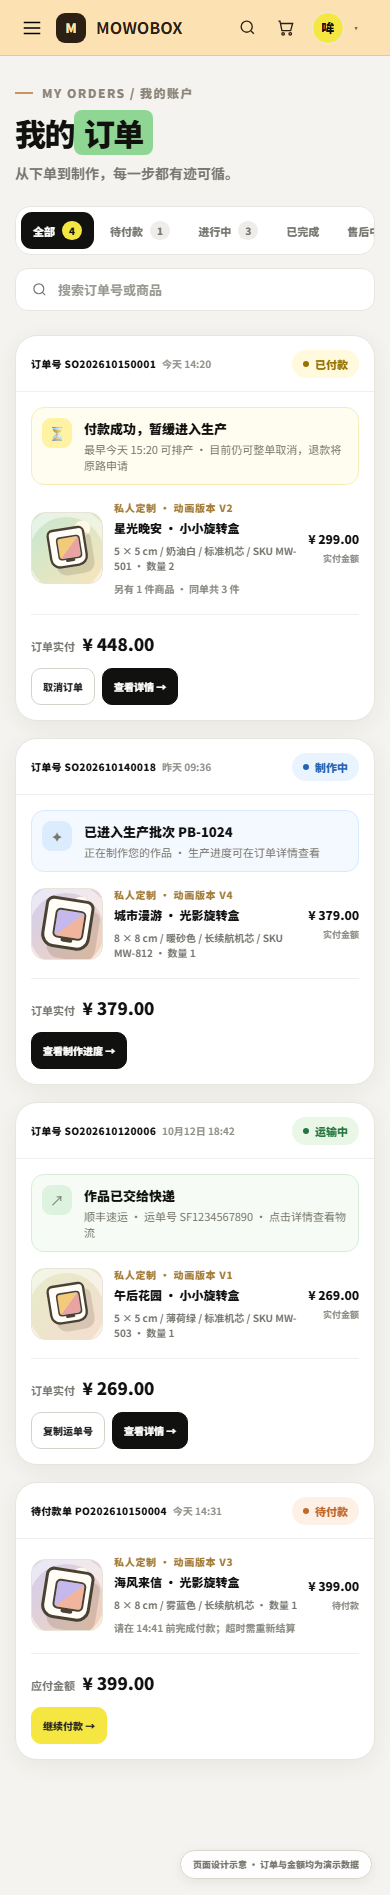
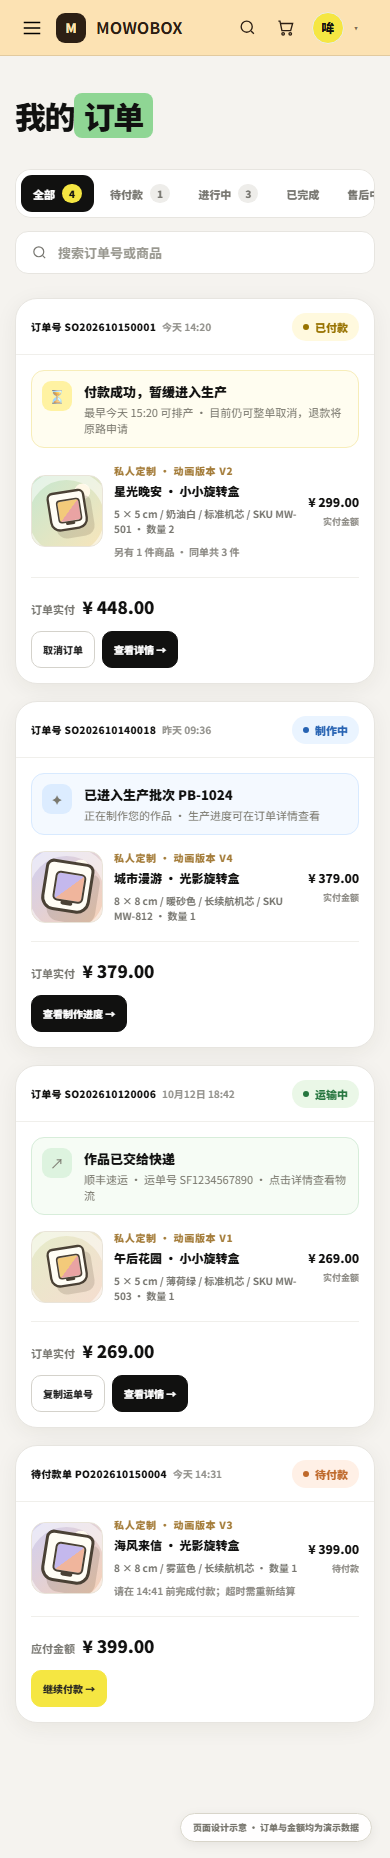
docs: use direct titles on order pages

diff --git a/docs/order-page-design/订单页面效果图.html b/docs/order-page-design/订单页面效果图.html
@@ -19,6 +19,7 @@
     html[data-view="detail"] .list-view{display:none}html[data-view="detail"] .detail-view{display:block}
     @media(max-width:900px){#mowo-nav{height:56px;grid-template-columns:auto 1fr auto;padding:0 16px}.mowo-nav-mid{display:none}.mowo-menu-btn{display:flex}.mowo-logo-sub{display:none}.mowo-logo{font-size:16px}.mowo-logo-mark{width:30px;height:30px;font-size:13px}.mowo-nav-left{gap:8px}.nav-uname{display:none}.workspace,.detail-layout{grid-template-columns:1fr}.aside-card{display:none}}
     @media(max-width:600px){.page,.detail-view .page{width:calc(100% - 30px);padding-top:28px}.page-title{font-size:31px}.page-top{margin-bottom:23px}.page-count{display:none}.toolbar{display:block}.tabs{overflow:auto;width:100%;margin-bottom:13px}.tab{padding:9px 12px;font-size:11px}.search{width:100%;height:43px}.card-top{flex-wrap:wrap;gap:6px;min-height:56px;padding:10px 15px}.card-number{font-size:10px}.card-date{font-size:10px}.card-content{padding:15px}.stage{margin-bottom:15px;padding:10px}.product-row{gap:11px}.art{width:72px;height:72px}.mini-box{transform:scale(.78) rotate(-9deg)}.product-name{font-size:12px}.product-spec,.product-more{font-size:10px}.product-price{font-size:12px}.product-price small{font-size:9px}.card-bottom{flex-wrap:wrap;gap:7px}.amount{flex-basis:100%;margin-bottom:5px}.btn{padding:0 11px;font-size:10px}.mowo-nav-right{gap:0}.demo-label{right:8px;bottom:8px;font-size:9px}.detail-header h1{font-size:24px}.hero{padding:19px}.hero h2{font-size:25px}.detail-card{padding:17px}.progress-item{font-size:9px}}
+    .list-view .page{max-width:930px}.list-view .workspace{display:block}
   </style>
 </head>
 <body>
@@ -29,7 +30,7 @@
   </nav>
   <div class="list-view">
     <main class="page">
-      <div class="page-top"><div><div class="eyebrow"><span class="dash"></span>MY ORDERS / 我的账户</div><h1 class="page-title">我的<mark>订单</mark></h1><p class="page-desc">从下单到制作，每一步都有迹可循。</p></div><p class="page-count">共 4 笔订单 · 最近更新于今天 14:26</p></div>
+      <div class="page-top"><div><h1 class="page-title">我的<mark>订单</mark></h1></div><p class="page-count">共 4 笔订单</p></div>
       <div class="toolbar"><div class="tabs"><button class="tab active">全部 <span class="count">4</span></button><button class="tab">待付款 <span class="count">1</span></button><button class="tab">进行中 <span class="count">3</span></button><button class="tab">已完成</button><button class="tab">售后中</button></div><div class="search"><svg viewBox="0 0 24 24"><circle cx="11" cy="11" r="7"/><path d="m20 20-3.5-3.5"/></svg>搜索订单号或商品</div></div>
       <div class="workspace">
         <div class="order-list">
@@ -38,17 +39,16 @@
           <article class="order-card"><div class="card-top"><span class="card-number">订单号 SO202610120006</span><span class="card-date">10月12日 18:42</span><span class="card-spacer"></span><span class="pill green">运输中</span></div><div class="card-content"><div class="stage green"><span class="stage-icon">↗</span><div><strong>作品已交给快递</strong><span>顺丰速运 · 运单号 SF1234567890 · 点击详情查看物流</span></div></div><div class="product-row"><div class="art c"><div class="mini-box"></div></div><div class="product-main"><div class="source">私人定制 · 动画版本 V1</div><div class="product-name">午后花园 · 小小旋转盒</div><div class="product-spec">5 × 5 cm / 薄荷绿 / 标准机芯 / SKU MW-503 · 数量 1</div></div><div class="product-price">¥ 269.00<small>实付金额</small></div></div><div class="card-bottom"><div class="amount">订单实付 <strong>¥ 269.00</strong></div><button class="btn">复制运单号</button><button class="btn dark">查看详情 →</button></div></div></article>
           <article class="order-card"><div class="card-top"><span class="card-number">待付款单 PO202610150004</span><span class="card-date">今天 14:31</span><span class="card-spacer"></span><span class="pill orange">待付款</span></div><div class="card-content"><div class="product-row"><div class="art b"><div class="mini-box"></div></div><div class="product-main"><div class="source">私人定制 · 动画版本 V3</div><div class="product-name">海风来信 · 光影旋转盒</div><div class="product-spec">8 × 8 cm / 雾蓝色 / 长续航机芯 · 数量 1</div><div class="product-more">请在 14:41 前完成付款；超时需重新结算</div></div><div class="product-price">¥ 399.00<small>待付款</small></div></div><div class="card-bottom"><div class="amount">应付金额 <strong>¥ 399.00</strong></div><button class="btn yellow">继续付款 →</button></div></div></article>
         </div>
-        <aside class="aside-card"><span class="aside-eyebrow">ORDER JOURNEY</span><h3>每一份创意，<br>我们认真对待。</h3><p>订单页面只展示实际发生的付款、制作与物流进度，让你随时知道作品到了哪一步。</p><hr><div class="aside-steps"><div class="aside-step"><span class="step-dot">1</span><span>付款成功后，订单先显示“已付款”</span></div><div class="aside-step"><span class="step-dot">2</span><span>真正进入生产批次，才显示“制作中”</span></div><div class="aside-step"><span class="step-dot">3</span><span>快递发出后，提供真实运单信息</span></div></div><div class="aside-foot">遇到问题？打开订单详情，带着订单号联系我们即可。</div></aside>
       </div>
     </main>
   </div>
   <div class="detail-view">
     <main class="page">
       <a class="back" href="?view=list">← 返回我的订单</a>
-      <div class="detail-header"><div><div class="eyebrow"><span class="dash"></span>ORDER DETAIL / 订单详情</div><h1>一份创意，正在等待启程。</h1><p>订单号 SO202610150001 · 下单时间 2026年10月15日 14:18</p></div><span class="pill yellow">已付款</span></div>
+      <div class="detail-header"><div><h1>订单详情</h1><p>订单号 SO202610150001 · 下单时间 2026年10月15日 14:18</p></div><span class="pill yellow">已付款</span></div>
       <div class="detail-layout">
         <div class="main-col">
-          <section class="hero"><div class="hero-top"><div><div class="hero-kicker">CURRENT STATUS / 当前进度</div><h2>已付款，等待排产</h2><p>付款于今天 14:20 确认；最早今天 15:20 可进入生产批次。<br>这个时间是最早排产时间，并非预计发货时间。</p></div><span class="pill yellow">可整单取消</span></div><div class="hero-action"><button class="btn dark">查看订单帮助 →</button><button class="btn">取消订单</button></div><div class="progress"><div class="progress-item done">付款成功</div><div class="progress-item active">等待排产</div><div class="progress-item">制作中</div><div class="progress-item">已发货</div><div class="progress-item">已完成</div></div></section>
+          <section class="hero"><div class="hero-top"><div><h2>已付款，等待排产</h2><p>付款于今天 14:20 确认；最早今天 15:20 可进入生产批次。<br>这个时间是最早排产时间，并非预计发货时间。</p></div><span class="pill yellow">可整单取消</span></div><div class="hero-action"><button class="btn dark">查看订单帮助 →</button><button class="btn">取消订单</button></div><div class="progress"><div class="progress-item done">付款成功</div><div class="progress-item active">等待排产</div><div class="progress-item">制作中</div><div class="progress-item">已发货</div><div class="progress-item">已完成</div></div></section>
           <section class="detail-card"><div class="section-head"><h3>购买的作品 <span class="fine">· 共 3 件</span></h3><a>成交时商品快照</a></div><div class="line-item"><div class="art"><div class="mini-box"></div></div><div class="product-main"><div class="source">私人定制 · 动画版本 V2</div><div class="product-name">星光晚安 · 小小旋转盒</div><div class="product-spec">5 × 5 cm / 奶油白 / 标准机芯 / SKU MW-501<br>数量 2 × ¥ 149.50</div></div><div class="product-price">¥ 299.00</div></div><div class="line-item"><div class="art b"><div class="mini-box"></div></div><div class="product-main"><div class="source">私人定制 · 动画版本 V1</div><div class="product-name">月光森林 · 小小旋转盒</div><div class="product-spec">5 × 5 cm / 雾紫色 / 标准机芯 / SKU MW-507<br>数量 1 × ¥ 149.00</div></div><div class="product-price">¥ 149.00</div></div></section>
           <section class="detail-card"><div class="section-head"><h3>订单进度</h3><a>所有时间均来自真实记录</a></div><div class="record current"><div><strong>付款成功，暂缓进入生产</strong><span>今天 14:20 · 最早 15:20 可排产</span></div></div><div class="record"><div><strong>订单提交成功</strong><span>今天 14:18 · 商品、动画版本与收件信息已保存</span></div></div></section>
           <section class="detail-card"><div class="section-head"><h3>生产与物流</h3></div><div class="fine">目前尚未进入生产批次，因此没有制作进度或运单。进入批次及发货后，这里会展示对应的真实记录。</div></section>
@@ -57,7 +57,7 @@
           <section class="detail-card"><div class="section-head"><h3>费用明细</h3></div><div class="row"><span>商品合计</span><strong>¥ 448.00</strong></div><div class="row"><span>运费</span><strong>¥ 0.00</strong></div><div class="row"><span>优惠调整</span><strong>¥ 0.00</strong></div><div class="row total"><span>实付金额</span><strong>¥ 448.00</strong></div><div class="fine">支付状态：已确认 · 支付时间：今天 14:20</div></section>
           <section class="detail-card"><div class="section-head"><h3>收货信息</h3></div><div style="font-size:13px;font-weight:900;margin-bottom:6px">林同学 <span style="color:#89877e;font-weight:700">138****2108</span></div><div class="fine">上海市徐汇区 ××路 ××号<br>这里显示下单时保存的地址</div></section>
           <section class="detail-card"><div class="section-head"><h3>取消与售后</h3></div><div class="fine">作品尚未入批，可以整单取消。实际支付的款项将按原支付渠道申请退款；退款结果会单独显示。</div><div style="margin-top:13px"><button class="btn">了解取消规则 →</button></div></section>
-          <section class="help-box"><strong>需要帮忙吗？</strong><p>联系客服时带上订单号，我们会更快找到这笔订单。</p><a>联络我们 →</a></section>
+          <section class="help-box"><strong>订单帮助</strong><p>联系客服时请提供订单号 SO202610150001。</p><a>联络我们 →</a></section>
         </aside>
       </div>
     </main>

diff --git a/frontend-vue/src/views/OrdersView.vue b/frontend-vue/src/views/OrdersView.vue
@@ -105,8 +105,7 @@ onBeforeUnmount(() => {
 <template>
   <main class="orders-page">
     <header class="page-header">
-      <h1 class="page-title">我的<em>订单</em> 📦</h1>
-      <p class="page-sub">每一份创意，都在认真制作中</p>
+      <h1 class="page-title">我的<em>订单</em></h1>
     </header>
     <div class="tab-bar" role="tablist" aria-label="订单筛选">
       <button

diff --git a/docs/order-page-design/01-我的订单-列表与详情页.md b/docs/order-page-design/01-我的订单-列表与详情页.md
@@ -2,6 +2,8 @@
 
 > 2026-10-14。这里描述首轮页面，不代表已经实现。所有“可操作”均由服务端返回资格并在提交时复核。
 
+页面标题直接写“我的订单”“订单详情”等功能名称，不加标语或抒情副标题。状态说明只写准确的事实和下一步，不使用重复的英文装饰标题；该规则以《04-mowo订单系统重设计.md》为准。
+
 ## 1. 购物车、结算与付款结果
 
 **购物车每条商品**：来源（私人定制）、作品标题和预览、锁定的动画版本、完整规格路径和 SKU、单价、数量、行金额、库存/价格变化提示。定制作品变更时提示重新确认，不悄悄替换版本。多条商品各自保留独立快照，不能用首条商品代表整单。

diff --git a/docs/MOWO_ORDER_SYSTEM_REDESIGN.md b/docs/MOWO_ORDER_SYSTEM_REDESIGN.md
@@ -30,6 +30,10 @@
 
 ## 3. 首轮页面与能力
 
+### 页面文案规则
+
+“我的订单”“订单详情”等功能页直接以功能名称为标题；标题下不放品牌标语、抒情副标题或重复的英文装饰标题。订单卡、详情和帮助区只保留顾客完成任务需要的事实：状态、时间、金额、规则、可用操作和下一步。例：“已付款，最早 15:20 可排产”可以显示；“从下单到制作，每一步都有迹可循”“一份创意，正在等待启程”不使用。空状态也说明实际情况和可执行操作，不写泛泛的宣传句。
+
 | 页面 | 第一轮必须让人看到/做什么 |
 |---|---|
 | 定制确认、购物车 | 作品、动画版本、完整规格、数量、价格变动、库存异常 |

diff --git a/CLAUDE.md b/CLAUDE.md
@@ -30,6 +30,7 @@
 - 页面存在不等于功能可用；接口存在不等于有权限保护；Schema 存在不等于迁移可复现。
 - 私人定制、公开联名、订单、动画资产、生产任务和库存对象必须分开，使用各自编号。
 - 顾客端不能展示虚假销量、评分、承诺、库存或未经确认的交期。
+- 功能页面的标题直接写页面名称或当前任务，例如“我的订单”“订单详情”；标题下不添加标语、抒情副标题或重复的英文装饰标题。说明文字只在能帮助用户理解状态、规则或下一步操作时出现，用具体事实和直接措辞。
 - 企业微信只负责沟通，不替代账号、订单、付款和操作记录。
 
 ## 技术边界
